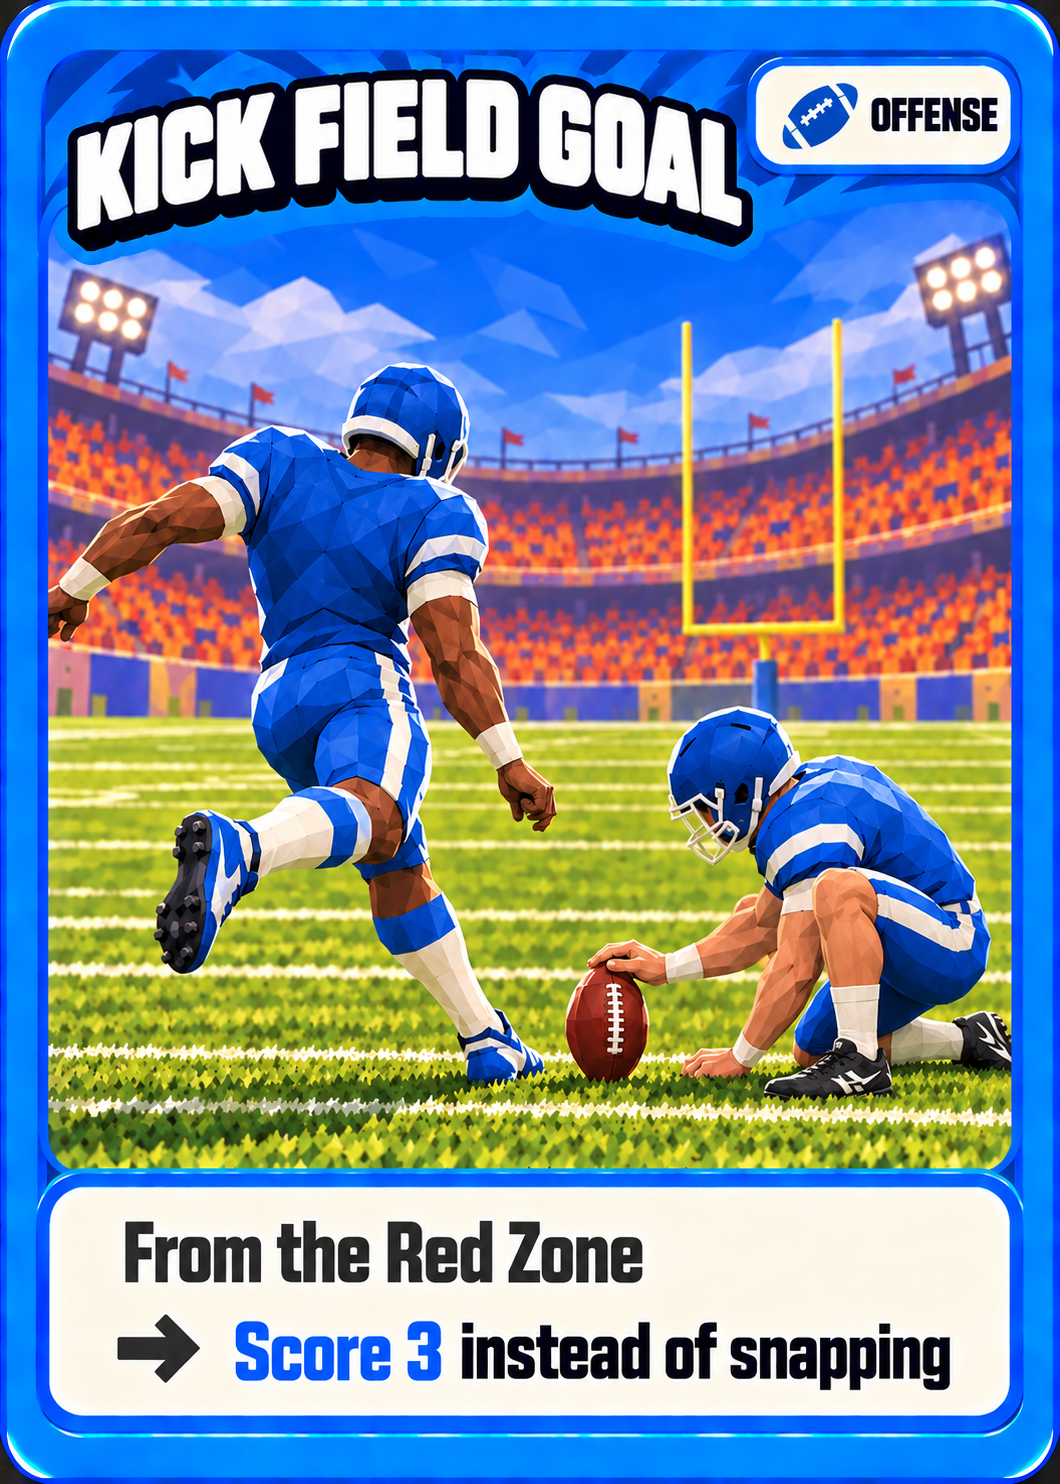
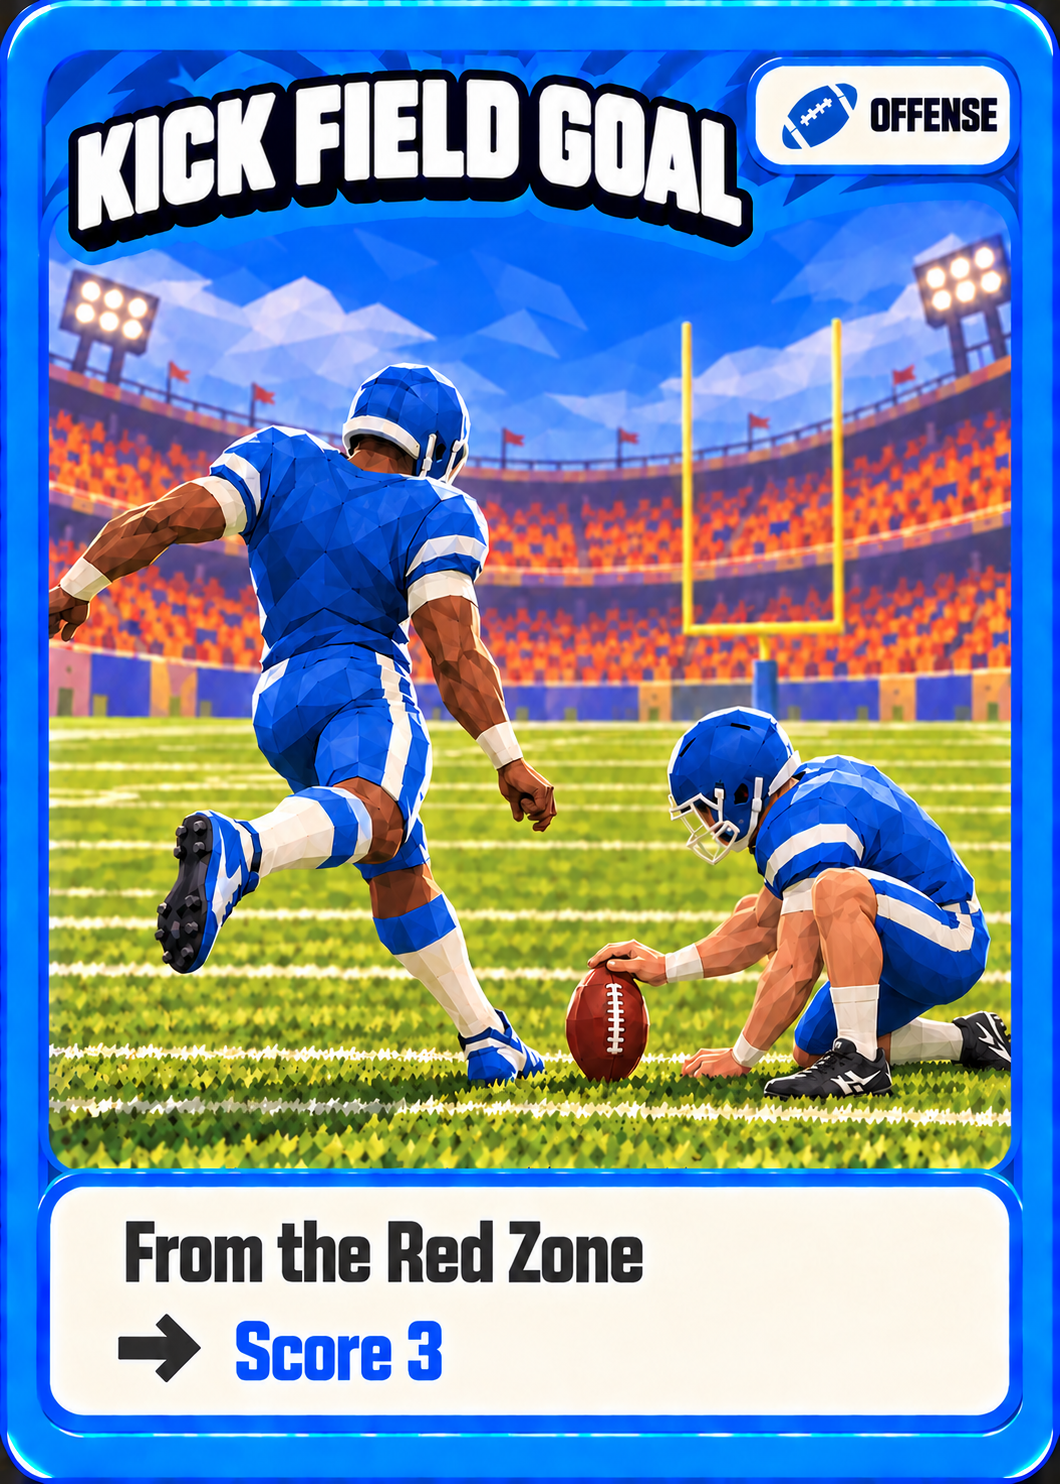
Shorten Kick Field Goal card text to Score 3

diff --git a/artwork/index.html b/artwork/index.html
@@ -1,3 +1,3 @@
 <!doctype html><html lang="en"><head><meta charset="utf-8"><meta name="viewport" content="width=device-width,initial-scale=1"><title>Snap Call — Card deck</title><style>
 *{box-sizing:border-box}body{margin:0;background:#0c2d21;color:#fbf3df;font:16px/1.5 system-ui,sans-serif}main{max-width:1500px;margin:auto;padding:32px}h1{margin:0;font-size:clamp(28px,5vw,48px)}p{max-width:65ch}a{color:#ffe17c}.deck{display:grid;grid-template-columns:repeat(auto-fit,minmax(225px,1fr));gap:28px;margin-top:32px}figure{margin:0}img{display:block;width:100%;height:auto;border-radius:4.5%/3.2%}figcaption{font-size:14px;margin-top:10px}nav{margin-top:16px}@media(max-width:500px){main{padding:20px}.deck{grid-template-columns:1fr;max-width:320px;margin-inline:auto}}@media print{body{background:white;color:black}main{padding:0}header,figcaption{display:none}.deck{display:flex;flex-wrap:wrap;gap:4mm;margin:0}figure{width:63mm;break-inside:avoid}img{width:63mm;height:auto}}
-</style></head><body><main><header><h1>Snap Call card deck</h1><p>All 24 cards, with the approved two-line rules on play and special cards. Select a card to download its full-size PNG.</p><nav><a href="../preview/">Play the card art preview</a></nav></header><div class="deck"><figure><a href="cards/run.png" download><img src="cards/run.png" width="1060" height="1484" alt="Run: ✓ Not stopped: +1 zone ✕ Stopped: their ball" loading="lazy"></a><figcaption>Run · <a href="cards/run.png" download>Download PNG</a></figcaption></figure><figure><a href="cards/short-pass.png" download><img src="cards/short-pass.png" width="1060" height="1484" alt="Short Pass: ✓ Not stopped: +1 zone ✕ Stopped: their ball" loading="lazy"></a><figcaption>Short Pass · <a href="cards/short-pass.png" download>Download PNG</a></figcaption></figure><figure><a href="cards/deep-pass.png" download><img src="cards/deep-pass.png" width="1060" height="1484" alt="Deep Pass: ✓ Not stopped: +2 zones ✕ Stopped: intercepted" loading="lazy"></a><figcaption>Deep Pass · <a href="cards/deep-pass.png" download>Download PNG</a></figcaption></figure><figure><a href="cards/stop-run.png" download><img src="cards/stop-run.png" width="1060" height="1484" alt="Stop Run: ✓ Stopped: your ball ✕ Not stopped: they gain" loading="lazy"></a><figcaption>Stop Run · <a href="cards/stop-run.png" download>Download PNG</a></figcaption></figure><figure><a href="cards/stop-short.png" download><img src="cards/stop-short.png" width="1060" height="1484" alt="Stop Short: ✓ Stopped: your ball ✕ Not stopped: they gain" loading="lazy"></a><figcaption>Stop Short · <a href="cards/stop-short.png" download>Download PNG</a></figcaption></figure><figure><a href="cards/stop-deep.png" download><img src="cards/stop-deep.png" width="1060" height="1484" alt="Stop Deep: ✓ Stopped: interception ✕ Not stopped: they gain" loading="lazy"></a><figcaption>Stop Deep · <a href="cards/stop-deep.png" download>Download PNG</a></figcaption></figure><figure><a href="cards/juke.png" download><img src="cards/juke.png" width="1060" height="1484" alt="Juke: If your play is stopped → Still gain 1 zone" loading="lazy"></a><figcaption>Juke · <a href="cards/juke.png" download>Download PNG</a></figcaption></figure><figure><a href="cards/spectacular-catch.png" download><img src="cards/spectacular-catch.png" width="1060" height="1484" alt="Spectacular Catch: If your play is stopped → Still gain 1 zone" loading="lazy"></a><figcaption>Spectacular Catch · <a href="cards/spectacular-catch.png" download>Download PNG</a></figcaption></figure><figure><a href="cards/sack.png" download><img src="cards/sack.png" width="1060" height="1484" alt="Sack: If you don’t stop the play → They go back 1 zone" loading="lazy"></a><figcaption>Sack · <a href="cards/sack.png" download>Download PNG</a></figcaption></figure><figure><a href="cards/tackle-for-loss.png" download><img src="cards/tackle-for-loss.png" width="1060" height="1484" alt="Tackle For Loss: If you don’t stop the play → They go back 1 zone" loading="lazy"></a><figcaption>Tackle For Loss · <a href="cards/tackle-for-loss.png" download>Download PNG</a></figcaption></figure><figure><a href="cards/challenge-flag.png" download><img src="cards/challenge-flag.png" width="1060" height="1484" alt="Challenge Flag: If you lose the snap → Replay it" loading="lazy"></a><figcaption>Challenge Flag · <a href="cards/challenge-flag.png" download>Download PNG</a></figcaption></figure><figure><a href="cards/breakaway.png" download><img src="cards/breakaway.png" width="1060" height="1484" alt="Breakaway: If your Run isn’t stopped → Touchdown" loading="lazy"></a><figcaption>Breakaway · <a href="cards/breakaway.png" download>Download PNG</a></figcaption></figure><figure><a href="cards/hail-mary.png" download><img src="cards/hail-mary.png" width="1060" height="1484" alt="Hail Mary: If your Deep Pass isn’t stopped → Touchdown" loading="lazy"></a><figcaption>Hail Mary · <a href="cards/hail-mary.png" download>Download PNG</a></figcaption></figure><figure><a href="cards/pick-six.png" download><img src="cards/pick-six.png" width="1060" height="1484" alt="Pick Six: If you stop a pass → You score 7" loading="lazy"></a><figcaption>Pick Six · <a href="cards/pick-six.png" download>Download PNG</a></figcaption></figure><figure><a href="cards/forced-fumble.png" download><img src="cards/forced-fumble.png" width="1060" height="1484" alt="Forced Fumble: If you stop a Run → Your ball at midfield" loading="lazy"></a><figcaption>Forced Fumble · <a href="cards/forced-fumble.png" download>Download PNG</a></figcaption></figure><figure><a href="cards/own-25.png" download><img src="cards/own-25.png" width="1060" height="1484" alt="Own 25: Own 25" loading="lazy"></a><figcaption>Own 25 · <a href="cards/own-25.png" download>Download PNG</a></figcaption></figure><figure><a href="cards/midfield.png" download><img src="cards/midfield.png" width="1060" height="1484" alt="Midfield: Midfield" loading="lazy"></a><figcaption>Midfield · <a href="cards/midfield.png" download>Download PNG</a></figcaption></figure><figure><a href="cards/red-zone.png" download><img src="cards/red-zone.png" width="1060" height="1484" alt="Red Zone: Red Zone" loading="lazy"></a><figcaption>Red Zone · <a href="cards/red-zone.png" download>Download PNG</a></figcaption></figure><figure><a href="cards/end-zone.png" download><img src="cards/end-zone.png" width="1060" height="1484" alt="End Zone: End Zone" loading="lazy"></a><figcaption>End Zone · <a href="cards/end-zone.png" download>Download PNG</a></figcaption></figure><figure><a href="cards/ball.png" download><img src="cards/ball.png" width="1060" height="1484" alt="Ball: Ball" loading="lazy"></a><figcaption>Ball · <a href="cards/ball.png" download>Download PNG</a></figcaption></figure><figure><a href="cards/touchdown.png" download><img src="cards/touchdown.png" width="1060" height="1484" alt="Touchdown: Touchdown" loading="lazy"></a><figcaption>Touchdown · <a href="cards/touchdown.png" download>Download PNG</a></figcaption></figure><figure><a href="cards/kick-field-goal.png" download><img src="cards/kick-field-goal.png" width="1060" height="1484" alt="Kick Field Goal: From the Red Zone; Score 3 instead of snapping" loading="lazy"></a><figcaption>Kick Field Goal · <a href="cards/kick-field-goal.png" download>Download PNG</a></figcaption></figure><figure><a href="cards/field-goal.png" download><img src="cards/field-goal.png" width="1060" height="1484" alt="Field Goal: Field Goal" loading="lazy"></a><figcaption>Field Goal · <a href="cards/field-goal.png" download>Download PNG</a></figcaption></figure><figure><a href="cards/card-back.png" download><img src="cards/card-back.png" width="1060" height="1484" alt="Card Back: Card Back" loading="lazy"></a><figcaption>Card Back · <a href="cards/card-back.png" download>Download PNG</a></figcaption></figure></div></main></body></html>
+</style></head><body><main><header><h1>Snap Call card deck</h1><p>All 24 cards, with the approved two-line rules on play and special cards. Select a card to download its full-size PNG.</p><nav><a href="../preview/">Play the card art preview</a></nav></header><div class="deck"><figure><a href="cards/run.png" download><img src="cards/run.png" width="1060" height="1484" alt="Run: ✓ Not stopped: +1 zone ✕ Stopped: their ball" loading="lazy"></a><figcaption>Run · <a href="cards/run.png" download>Download PNG</a></figcaption></figure><figure><a href="cards/short-pass.png" download><img src="cards/short-pass.png" width="1060" height="1484" alt="Short Pass: ✓ Not stopped: +1 zone ✕ Stopped: their ball" loading="lazy"></a><figcaption>Short Pass · <a href="cards/short-pass.png" download>Download PNG</a></figcaption></figure><figure><a href="cards/deep-pass.png" download><img src="cards/deep-pass.png" width="1060" height="1484" alt="Deep Pass: ✓ Not stopped: +2 zones ✕ Stopped: intercepted" loading="lazy"></a><figcaption>Deep Pass · <a href="cards/deep-pass.png" download>Download PNG</a></figcaption></figure><figure><a href="cards/stop-run.png" download><img src="cards/stop-run.png" width="1060" height="1484" alt="Stop Run: ✓ Stopped: your ball ✕ Not stopped: they gain" loading="lazy"></a><figcaption>Stop Run · <a href="cards/stop-run.png" download>Download PNG</a></figcaption></figure><figure><a href="cards/stop-short.png" download><img src="cards/stop-short.png" width="1060" height="1484" alt="Stop Short: ✓ Stopped: your ball ✕ Not stopped: they gain" loading="lazy"></a><figcaption>Stop Short · <a href="cards/stop-short.png" download>Download PNG</a></figcaption></figure><figure><a href="cards/stop-deep.png" download><img src="cards/stop-deep.png" width="1060" height="1484" alt="Stop Deep: ✓ Stopped: interception ✕ Not stopped: they gain" loading="lazy"></a><figcaption>Stop Deep · <a href="cards/stop-deep.png" download>Download PNG</a></figcaption></figure><figure><a href="cards/juke.png" download><img src="cards/juke.png" width="1060" height="1484" alt="Juke: If your play is stopped → Still gain 1 zone" loading="lazy"></a><figcaption>Juke · <a href="cards/juke.png" download>Download PNG</a></figcaption></figure><figure><a href="cards/spectacular-catch.png" download><img src="cards/spectacular-catch.png" width="1060" height="1484" alt="Spectacular Catch: If your play is stopped → Still gain 1 zone" loading="lazy"></a><figcaption>Spectacular Catch · <a href="cards/spectacular-catch.png" download>Download PNG</a></figcaption></figure><figure><a href="cards/sack.png" download><img src="cards/sack.png" width="1060" height="1484" alt="Sack: If you don’t stop the play → They go back 1 zone" loading="lazy"></a><figcaption>Sack · <a href="cards/sack.png" download>Download PNG</a></figcaption></figure><figure><a href="cards/tackle-for-loss.png" download><img src="cards/tackle-for-loss.png" width="1060" height="1484" alt="Tackle For Loss: If you don’t stop the play → They go back 1 zone" loading="lazy"></a><figcaption>Tackle For Loss · <a href="cards/tackle-for-loss.png" download>Download PNG</a></figcaption></figure><figure><a href="cards/challenge-flag.png" download><img src="cards/challenge-flag.png" width="1060" height="1484" alt="Challenge Flag: If you lose the snap → Replay it" loading="lazy"></a><figcaption>Challenge Flag · <a href="cards/challenge-flag.png" download>Download PNG</a></figcaption></figure><figure><a href="cards/breakaway.png" download><img src="cards/breakaway.png" width="1060" height="1484" alt="Breakaway: If your Run isn’t stopped → Touchdown" loading="lazy"></a><figcaption>Breakaway · <a href="cards/breakaway.png" download>Download PNG</a></figcaption></figure><figure><a href="cards/hail-mary.png" download><img src="cards/hail-mary.png" width="1060" height="1484" alt="Hail Mary: If your Deep Pass isn’t stopped → Touchdown" loading="lazy"></a><figcaption>Hail Mary · <a href="cards/hail-mary.png" download>Download PNG</a></figcaption></figure><figure><a href="cards/pick-six.png" download><img src="cards/pick-six.png" width="1060" height="1484" alt="Pick Six: If you stop a pass → You score 7" loading="lazy"></a><figcaption>Pick Six · <a href="cards/pick-six.png" download>Download PNG</a></figcaption></figure><figure><a href="cards/forced-fumble.png" download><img src="cards/forced-fumble.png" width="1060" height="1484" alt="Forced Fumble: If you stop a Run → Your ball at midfield" loading="lazy"></a><figcaption>Forced Fumble · <a href="cards/forced-fumble.png" download>Download PNG</a></figcaption></figure><figure><a href="cards/own-25.png" download><img src="cards/own-25.png" width="1060" height="1484" alt="Own 25: Own 25" loading="lazy"></a><figcaption>Own 25 · <a href="cards/own-25.png" download>Download PNG</a></figcaption></figure><figure><a href="cards/midfield.png" download><img src="cards/midfield.png" width="1060" height="1484" alt="Midfield: Midfield" loading="lazy"></a><figcaption>Midfield · <a href="cards/midfield.png" download>Download PNG</a></figcaption></figure><figure><a href="cards/red-zone.png" download><img src="cards/red-zone.png" width="1060" height="1484" alt="Red Zone: Red Zone" loading="lazy"></a><figcaption>Red Zone · <a href="cards/red-zone.png" download>Download PNG</a></figcaption></figure><figure><a href="cards/end-zone.png" download><img src="cards/end-zone.png" width="1060" height="1484" alt="End Zone: End Zone" loading="lazy"></a><figcaption>End Zone · <a href="cards/end-zone.png" download>Download PNG</a></figcaption></figure><figure><a href="cards/ball.png" download><img src="cards/ball.png" width="1060" height="1484" alt="Ball: Ball" loading="lazy"></a><figcaption>Ball · <a href="cards/ball.png" download>Download PNG</a></figcaption></figure><figure><a href="cards/touchdown.png" download><img src="cards/touchdown.png" width="1060" height="1484" alt="Touchdown: Touchdown" loading="lazy"></a><figcaption>Touchdown · <a href="cards/touchdown.png" download>Download PNG</a></figcaption></figure><figure><a href="cards/kick-field-goal.png" download><img src="cards/kick-field-goal.png" width="1060" height="1484" alt="Kick Field Goal: From the Red Zone; Score 3" loading="lazy"></a><figcaption>Kick Field Goal · <a href="cards/kick-field-goal.png" download>Download PNG</a></figcaption></figure><figure><a href="cards/field-goal.png" download><img src="cards/field-goal.png" width="1060" height="1484" alt="Field Goal: Field Goal" loading="lazy"></a><figcaption>Field Goal · <a href="cards/field-goal.png" download>Download PNG</a></figcaption></figure><figure><a href="cards/card-back.png" download><img src="cards/card-back.png" width="1060" height="1484" alt="Card Back: Card Back" loading="lazy"></a><figcaption>Card Back · <a href="cards/card-back.png" download>Download PNG</a></figcaption></figure></div></main></body></html>
